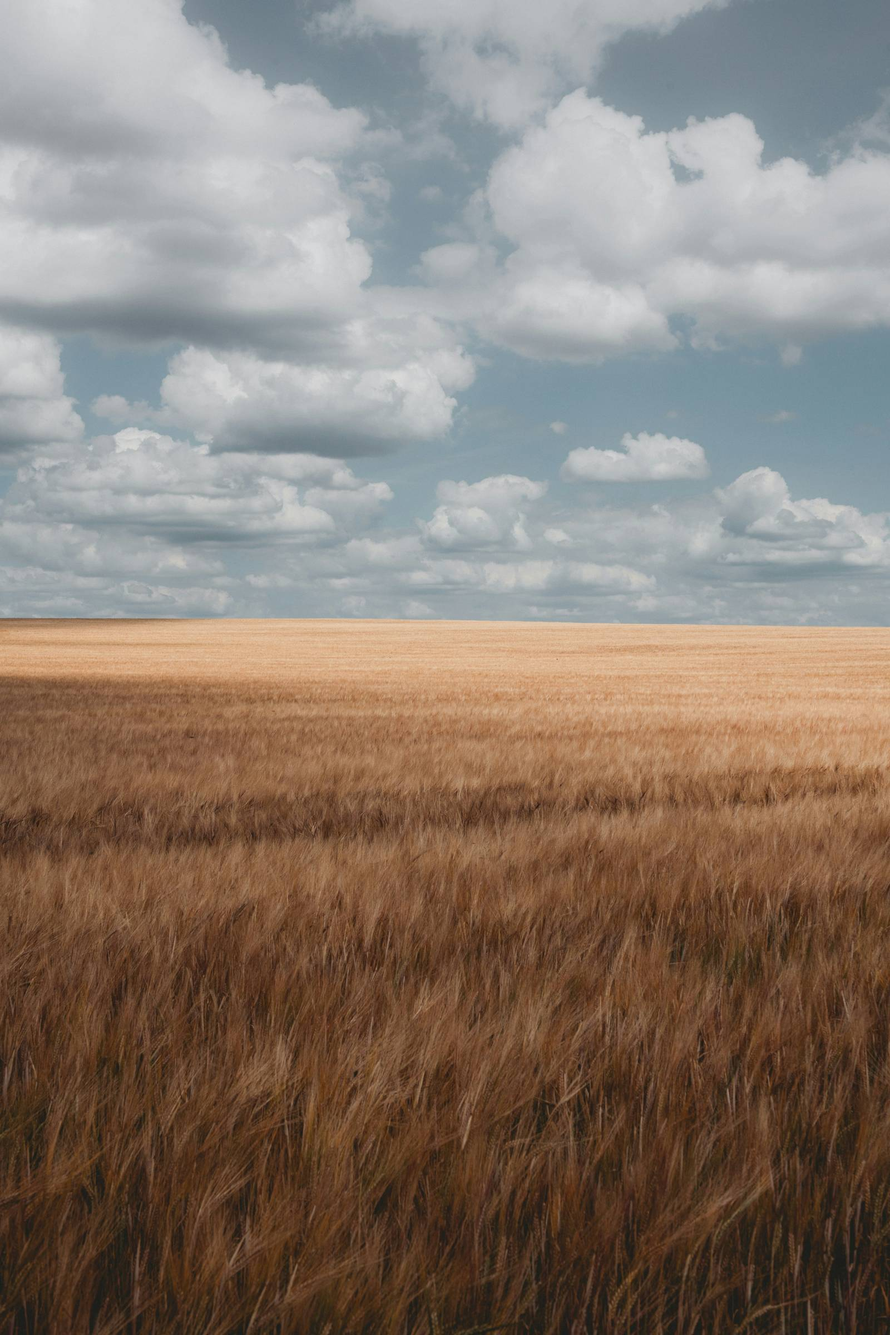
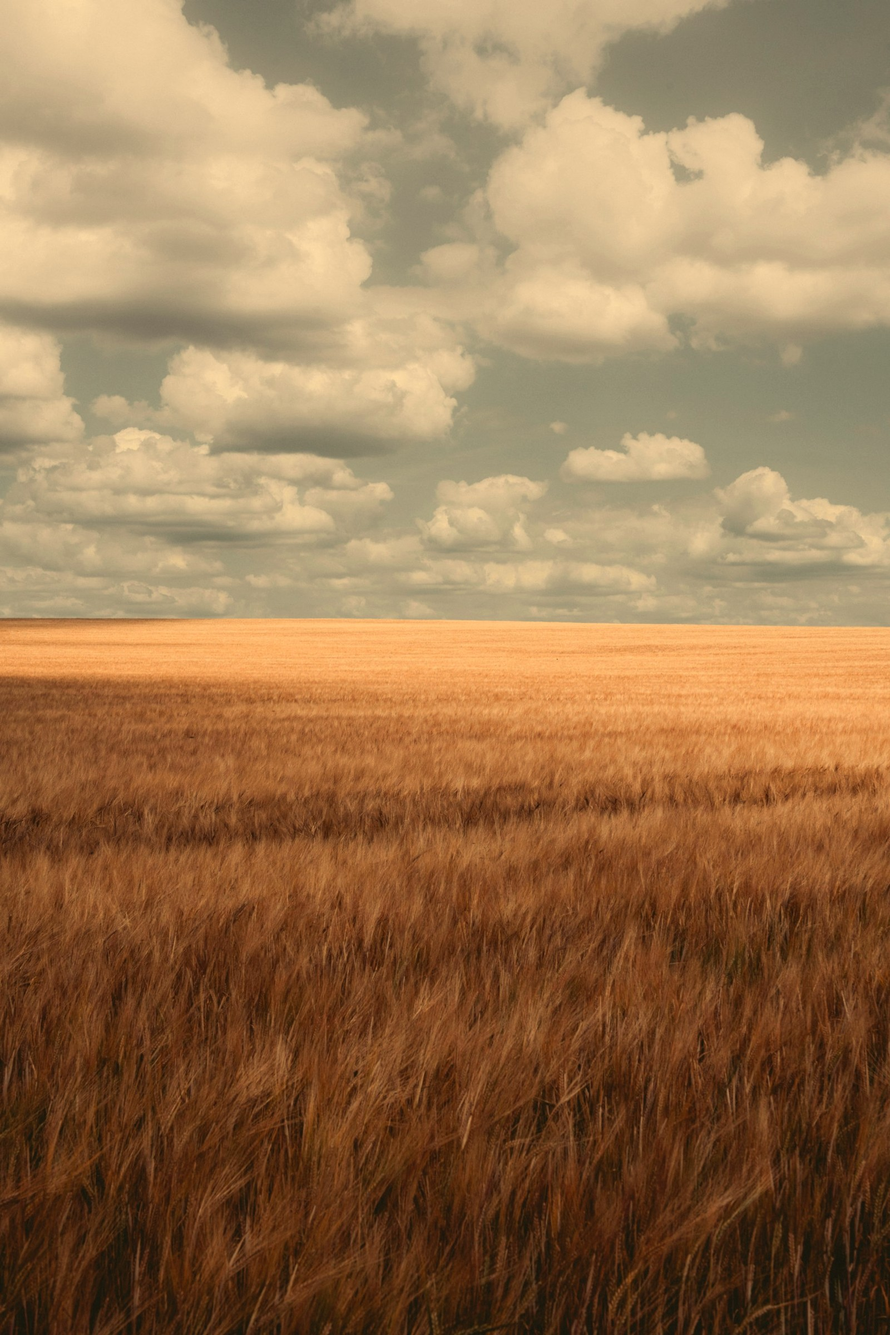
Add graded cloudy wheat slide, horizon at eye level, remove header band
Claude-Session: https://claude.ai/code/session_0116ez5pmVSqE13isgJh2Uw5

diff --git a/assets/css/site.css b/assets/css/site.css
@@ -409,3 +409,6 @@ body{background:var(--chalk)}
 .wordmark small{color:#4f7a2c;text-shadow:0 0 2px rgba(255,248,230,.55),0 1px 10px rgba(255,248,230,.35)}
 .header--over{background:none}
 .wordmark small{color:#6a9440;font-weight:700;text-shadow:0 1px 2px rgba(12,8,3,.85),0 0 10px rgba(12,8,3,.5)}
+@keyframes slide7b{0%{opacity:0;transform:scale(1)}3%{opacity:1}14.3%{opacity:1}17.3%{opacity:0;transform:scale(1.06)}100%{opacity:0;transform:scale(1.06)}}
+.stage__slide{animation:slide7b 49s linear infinite;animation-delay:calc(var(--i) * 7s - 1.7s)}
+@media (prefers-reduced-motion:reduce){.stage__slide{animation:none;opacity:0}.stage__slide:first-of-type{opacity:1}}
